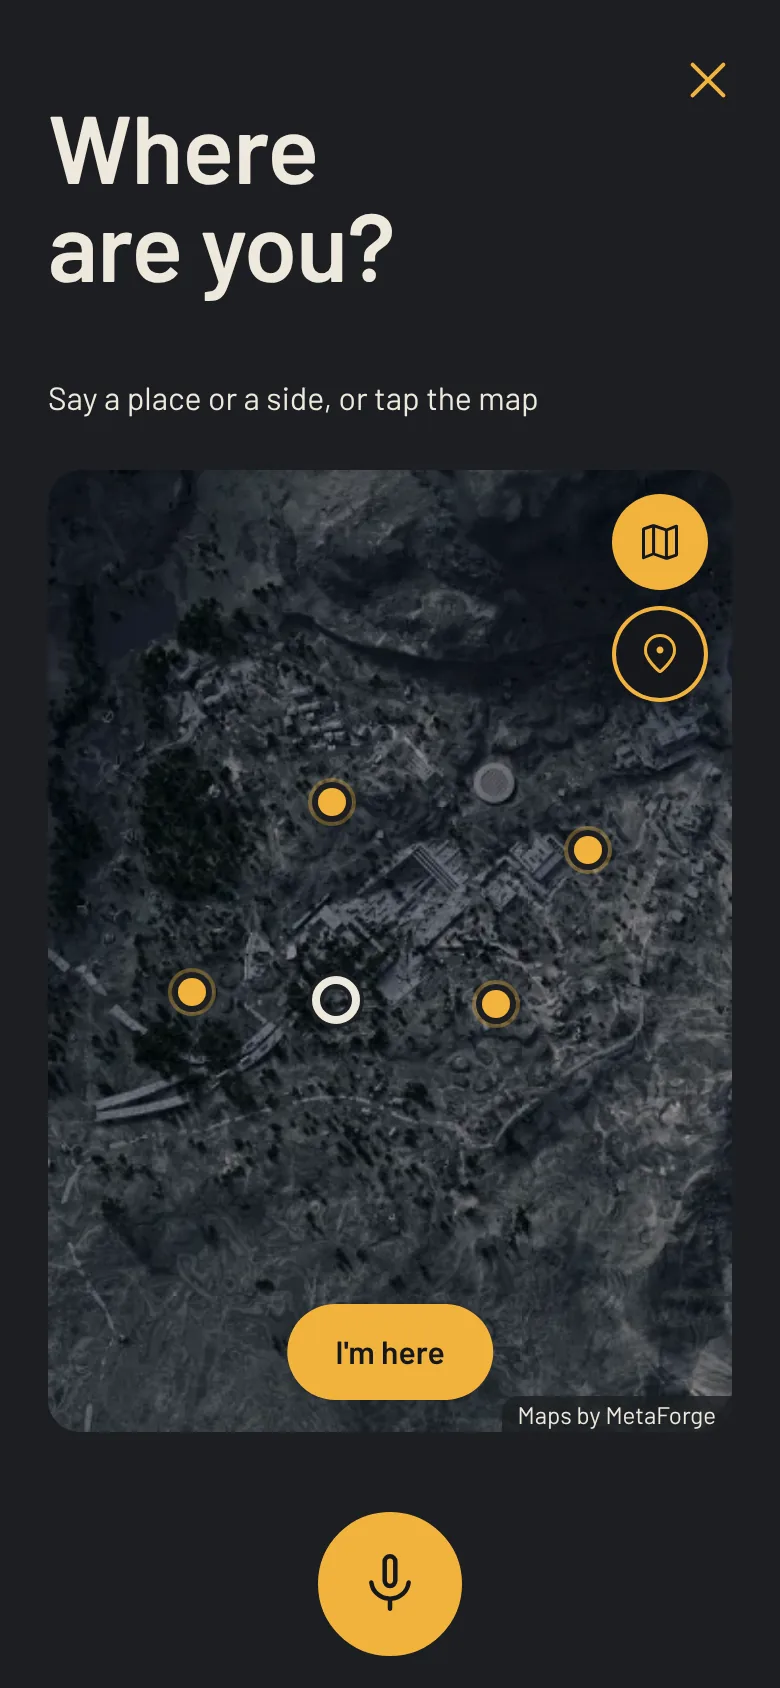
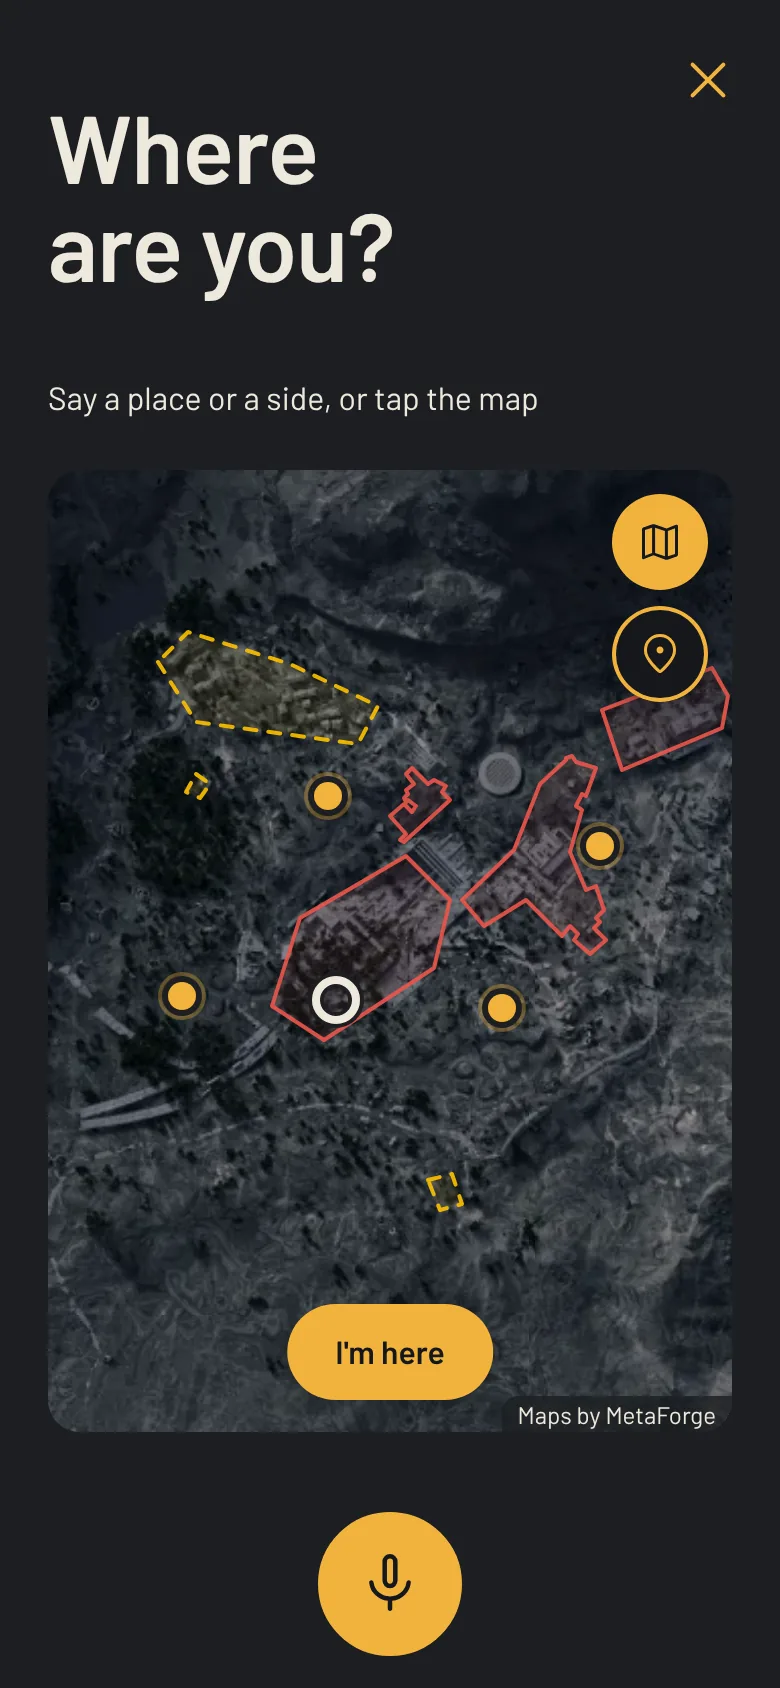
Homepage: 'Find what you need' (nearest Rocketeer), screens recaptured (zones, evac on open ground), one 'See how it works' link instead of four dead 'Get the app' buttons
Claude-Session: https://claude.ai/code/session_01P1qx1QZyeSjWaVtkk56LYS

diff --git a/site/beta/index.html b/site/beta/index.html
@@ -40,7 +40,6 @@
       <div class="reveal">
         <h2>Just ask.</h2>
         <p>Say “Hey Relay” or tap, and talk like you would to a teammate. ArcRelay answers out loud, then listens for a follow-up, so your eyes stay on the TV and your hands stay on the pad.</p>
-        <span class="btn">Get the app</span>
       </div>
     </div>
   </section>
@@ -49,13 +48,12 @@
     <div class="wrap">
       <div class="phone-col reveal">
         <div class="phone">
-          <div class="screen shot"><img src="screens/screen-4-quest.webp" width="390" height="844" alt="ArcRelay's answer for Home to Roost step 3: Right, up two flights. Door on your right. Below, the map with you, a yellow dot on the spot and a dashed line between." loading="lazy" decoding="async"></div>
+          <div class="screen shot"><img src="screens/screen-4-find.webp" width="390" height="844" alt="ArcRelay's answer to where is the nearest Rocketeer: Nearest Rocketeer, west. Below, the map with you, a dashed line and a yellow dot on the nearest spawn." loading="lazy" decoding="async"></div>
         </div>
       </div>
       <div class="reveal">
-        <h2>Know where to go.</h2>
-        <p>Hear the route, glance at the instruction. One dot on the map shows exactly where, so you can drop your waypoint in-game without scrolling a guide full of adverts. Hunting for Dead Flowers? It names the best place to look, and tells you straight when something has no fixed spot.</p>
-        <span class="btn">Get the app</span>
+        <h2>Find what you need.</h2>
+        <p>Ask for an item, an enemy or a spawn. One dot on the map shows the nearest, so you can drop your waypoint in-game without scrolling a guide full of adverts. Hunting for Dead Flowers? It names the best places to look, and tells you straight when something has no fixed spot.</p>
       </div>
     </div>
   </section>
@@ -70,7 +68,6 @@
       <div class="reveal">
         <h2>Need a quick evac?</h2>
         <p>Say where you are, and ArcRelay names the nearest way out and shows the route on the map. Short on time? Tell it how many minutes are left and it gets straight to the point.</p>
-        <span class="btn">Get the app</span>
       </div>
     </div>
   </section>
@@ -84,7 +81,7 @@
       <div class="reveal">
         <h2>Show it where you are.</h2>
         <p>Can't remember the name of the place? Tap your spot on the map and confirm. ArcRelay works out the nearest way out, or your next step, from right where you're standing.</p>
-        <span class="btn">Get the app</span>
+        <a class="btn" href="how-it-works">See how it works</a>
       </div>
     </div>
   </section>
